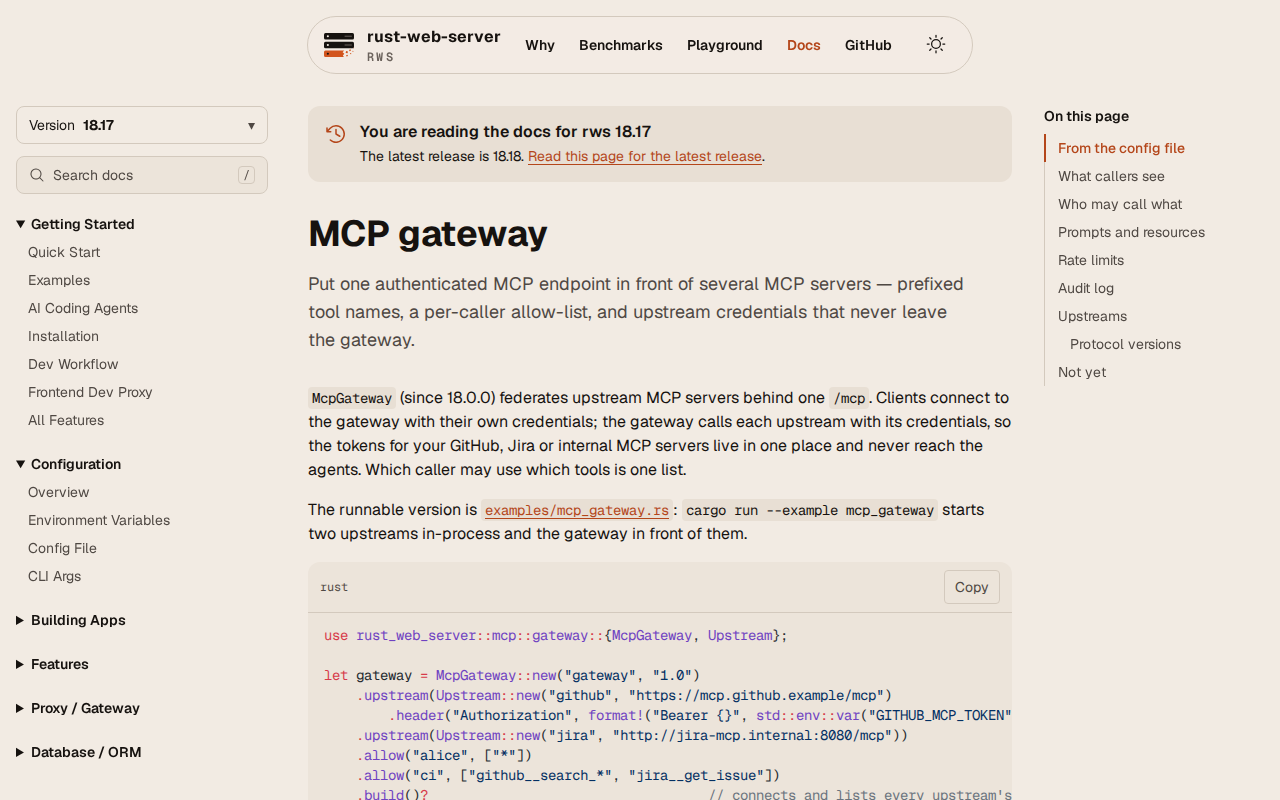
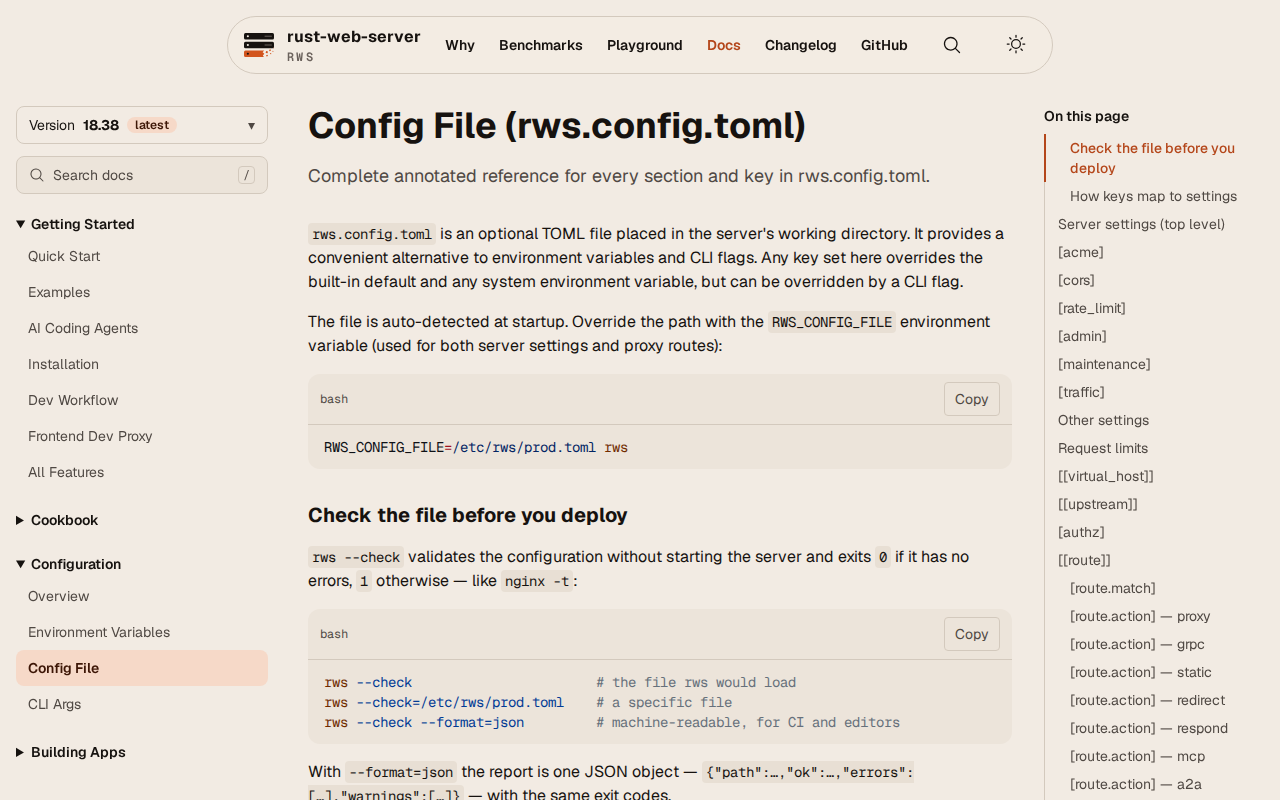
site: current rws admin and rws8.tech screenshots on the showcase
showcase-admin.png: the rws 18.38.0 admin Overview (redesign) in its dark
theme, from a local release binary with generated traffic. showcase-rws.png:
the Config File page of the rws docs (18.38, latest), light theme. Both
1280x800. Alt texts and the admin description follow.

diff --git a/apps/site/src/pages/other.js b/apps/site/src/pages/other.js
@@ -44,8 +44,8 @@ const SHOWCASE = [
   {
     name: "The rws admin UI",
     image: "/brand/showcase-admin.png",
-    alt: "The rws admin UI overview: uptime, request counters, a low disk warning and a requests per second chart.",
-    text: "The admin console built into the rws web server: live traffic, upstreams, certificates, controls and the access log. Navigation, stats, charts, tables, switches and the log viewer are lit-material.",
+    alt: "The rws admin UI overview in its dark theme: requests per second with a live chart, error, connection and request counters, response time percentiles, a Needs attention panel and the live requests table.",
+    text: "The admin console built into the rws web server: a live overview, traffic, logs, upstreams, certificates, controls, config and the audit log, grouped into Observe, Route and Operate with keyboard shortcuts and a command search. Navigation, stats, charts, tables, switches and the log viewer are lit-material.",
     href: "https://rws8.tech/docs/deployment/admin/",
     link: "About the admin UI",
   },
@@ -60,7 +60,7 @@ const SHOWCASE = [
   {
     name: "rws8.tech",
     image: "/brand/showcase-rws.png",
-    alt: "An rws8.tech docs page with its sidebar, version switch and an On this page list.",
+    alt: "The Config File page of the rws docs on rws8.tech: the docs sidebar, the version switch on 18.38 (latest), rws --check examples in code blocks with Copy buttons, and a long On this page list.",
     text: "The rws website and its versioned docs, rendered on the server with Lit SSR. Tabs, code blocks, alerts, jump links and the back to top button are lit-material.",
     href: "https://rws8.tech/",
     link: "Visit rws8.tech",
